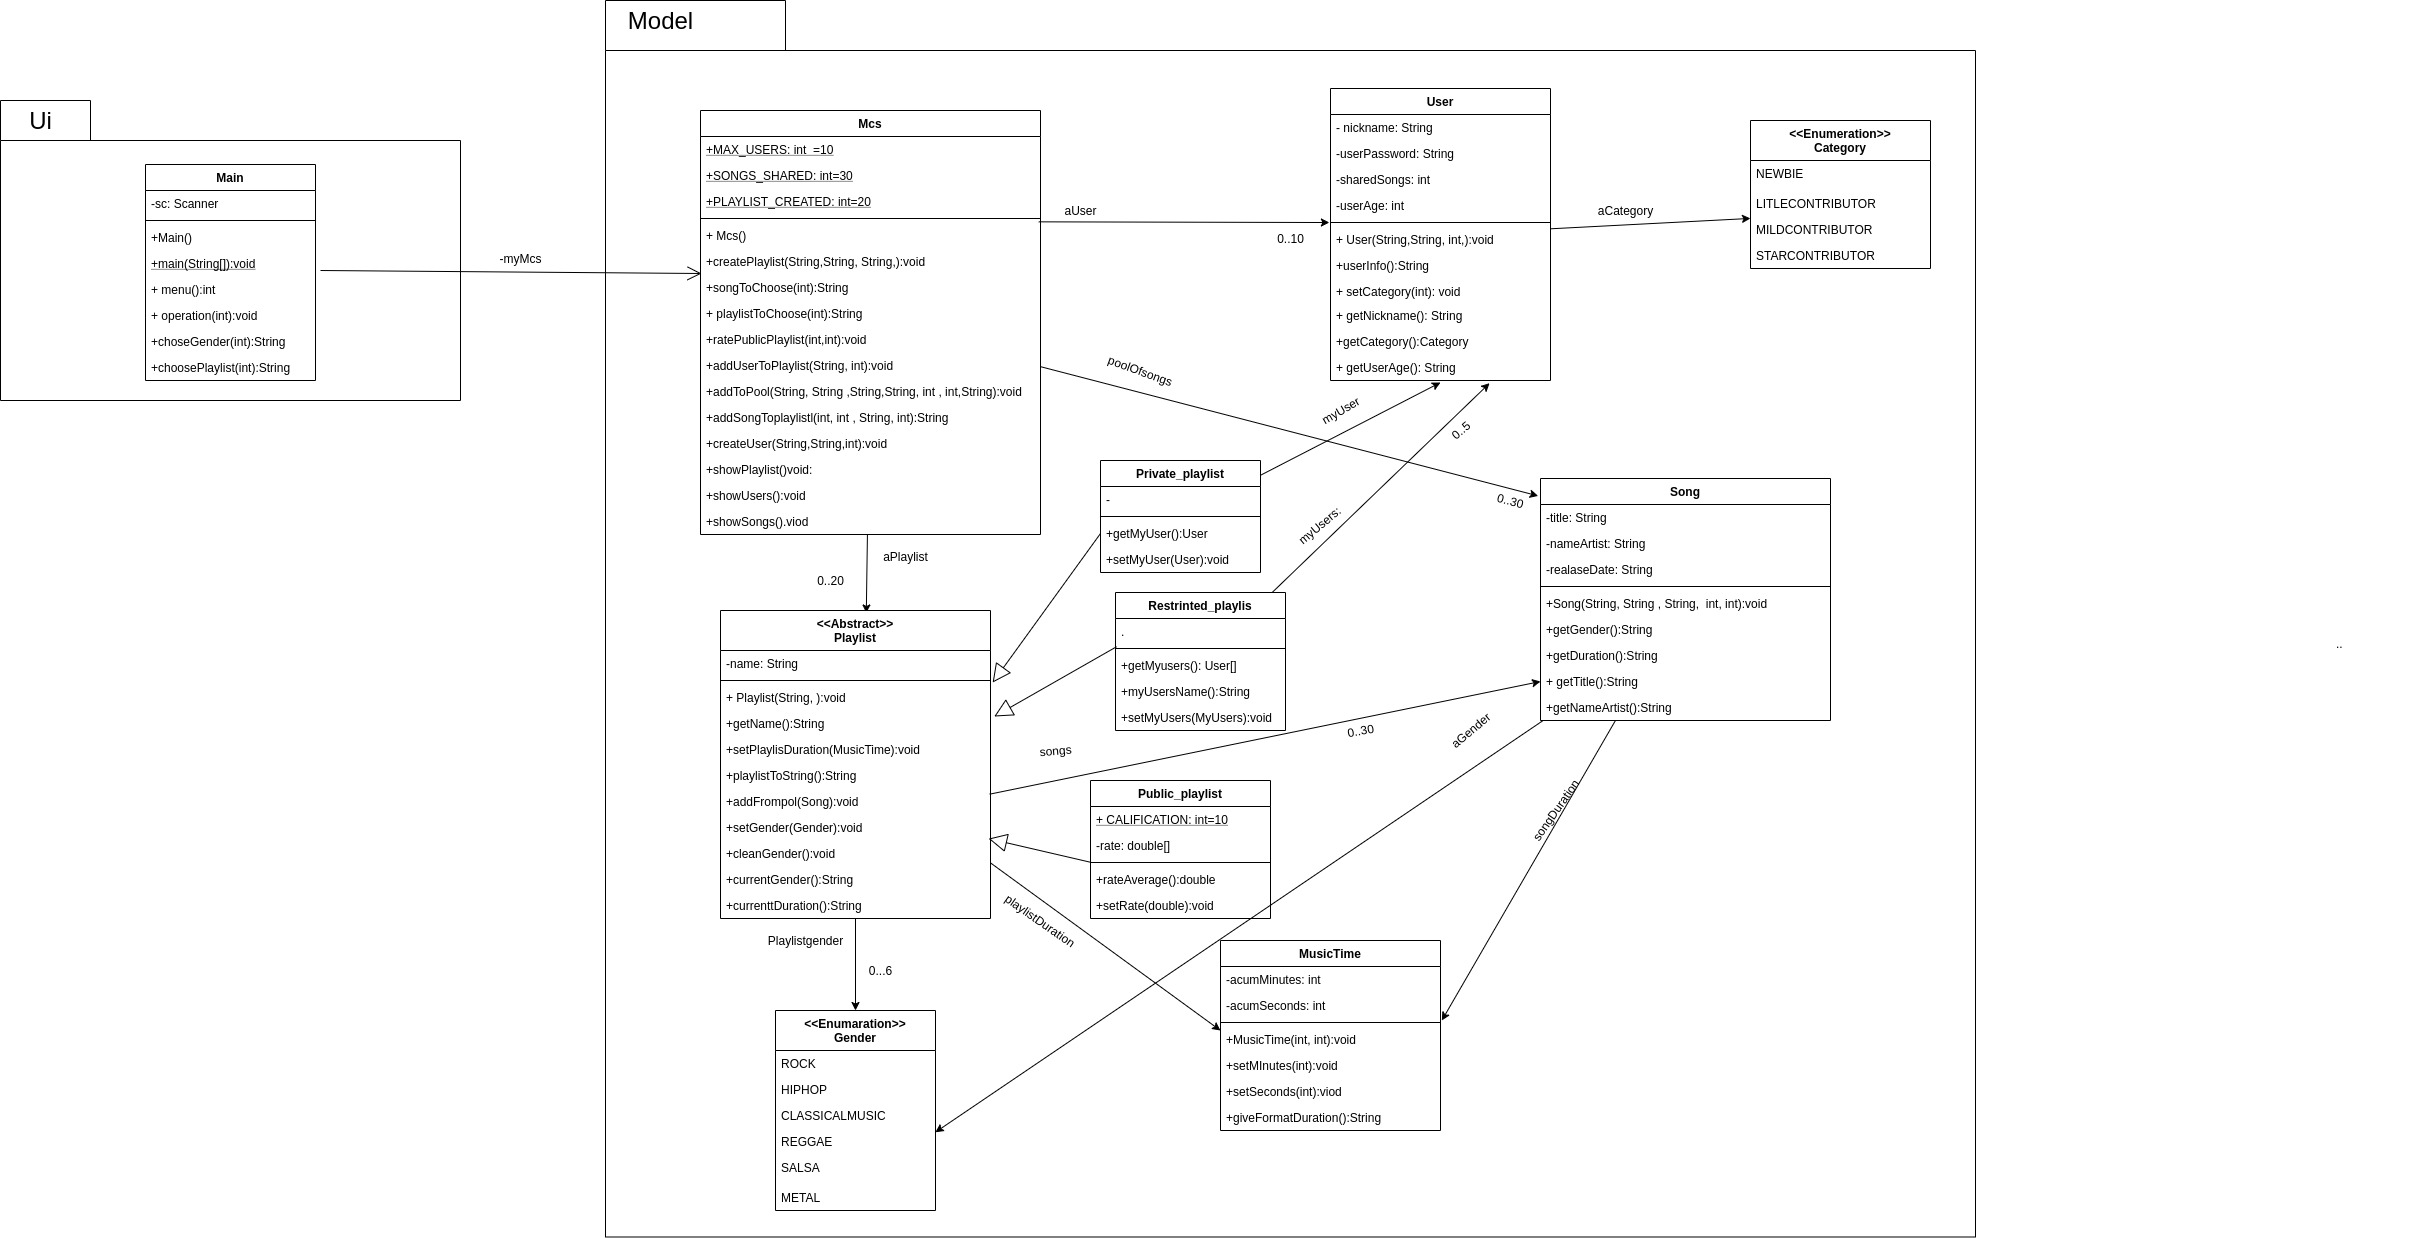
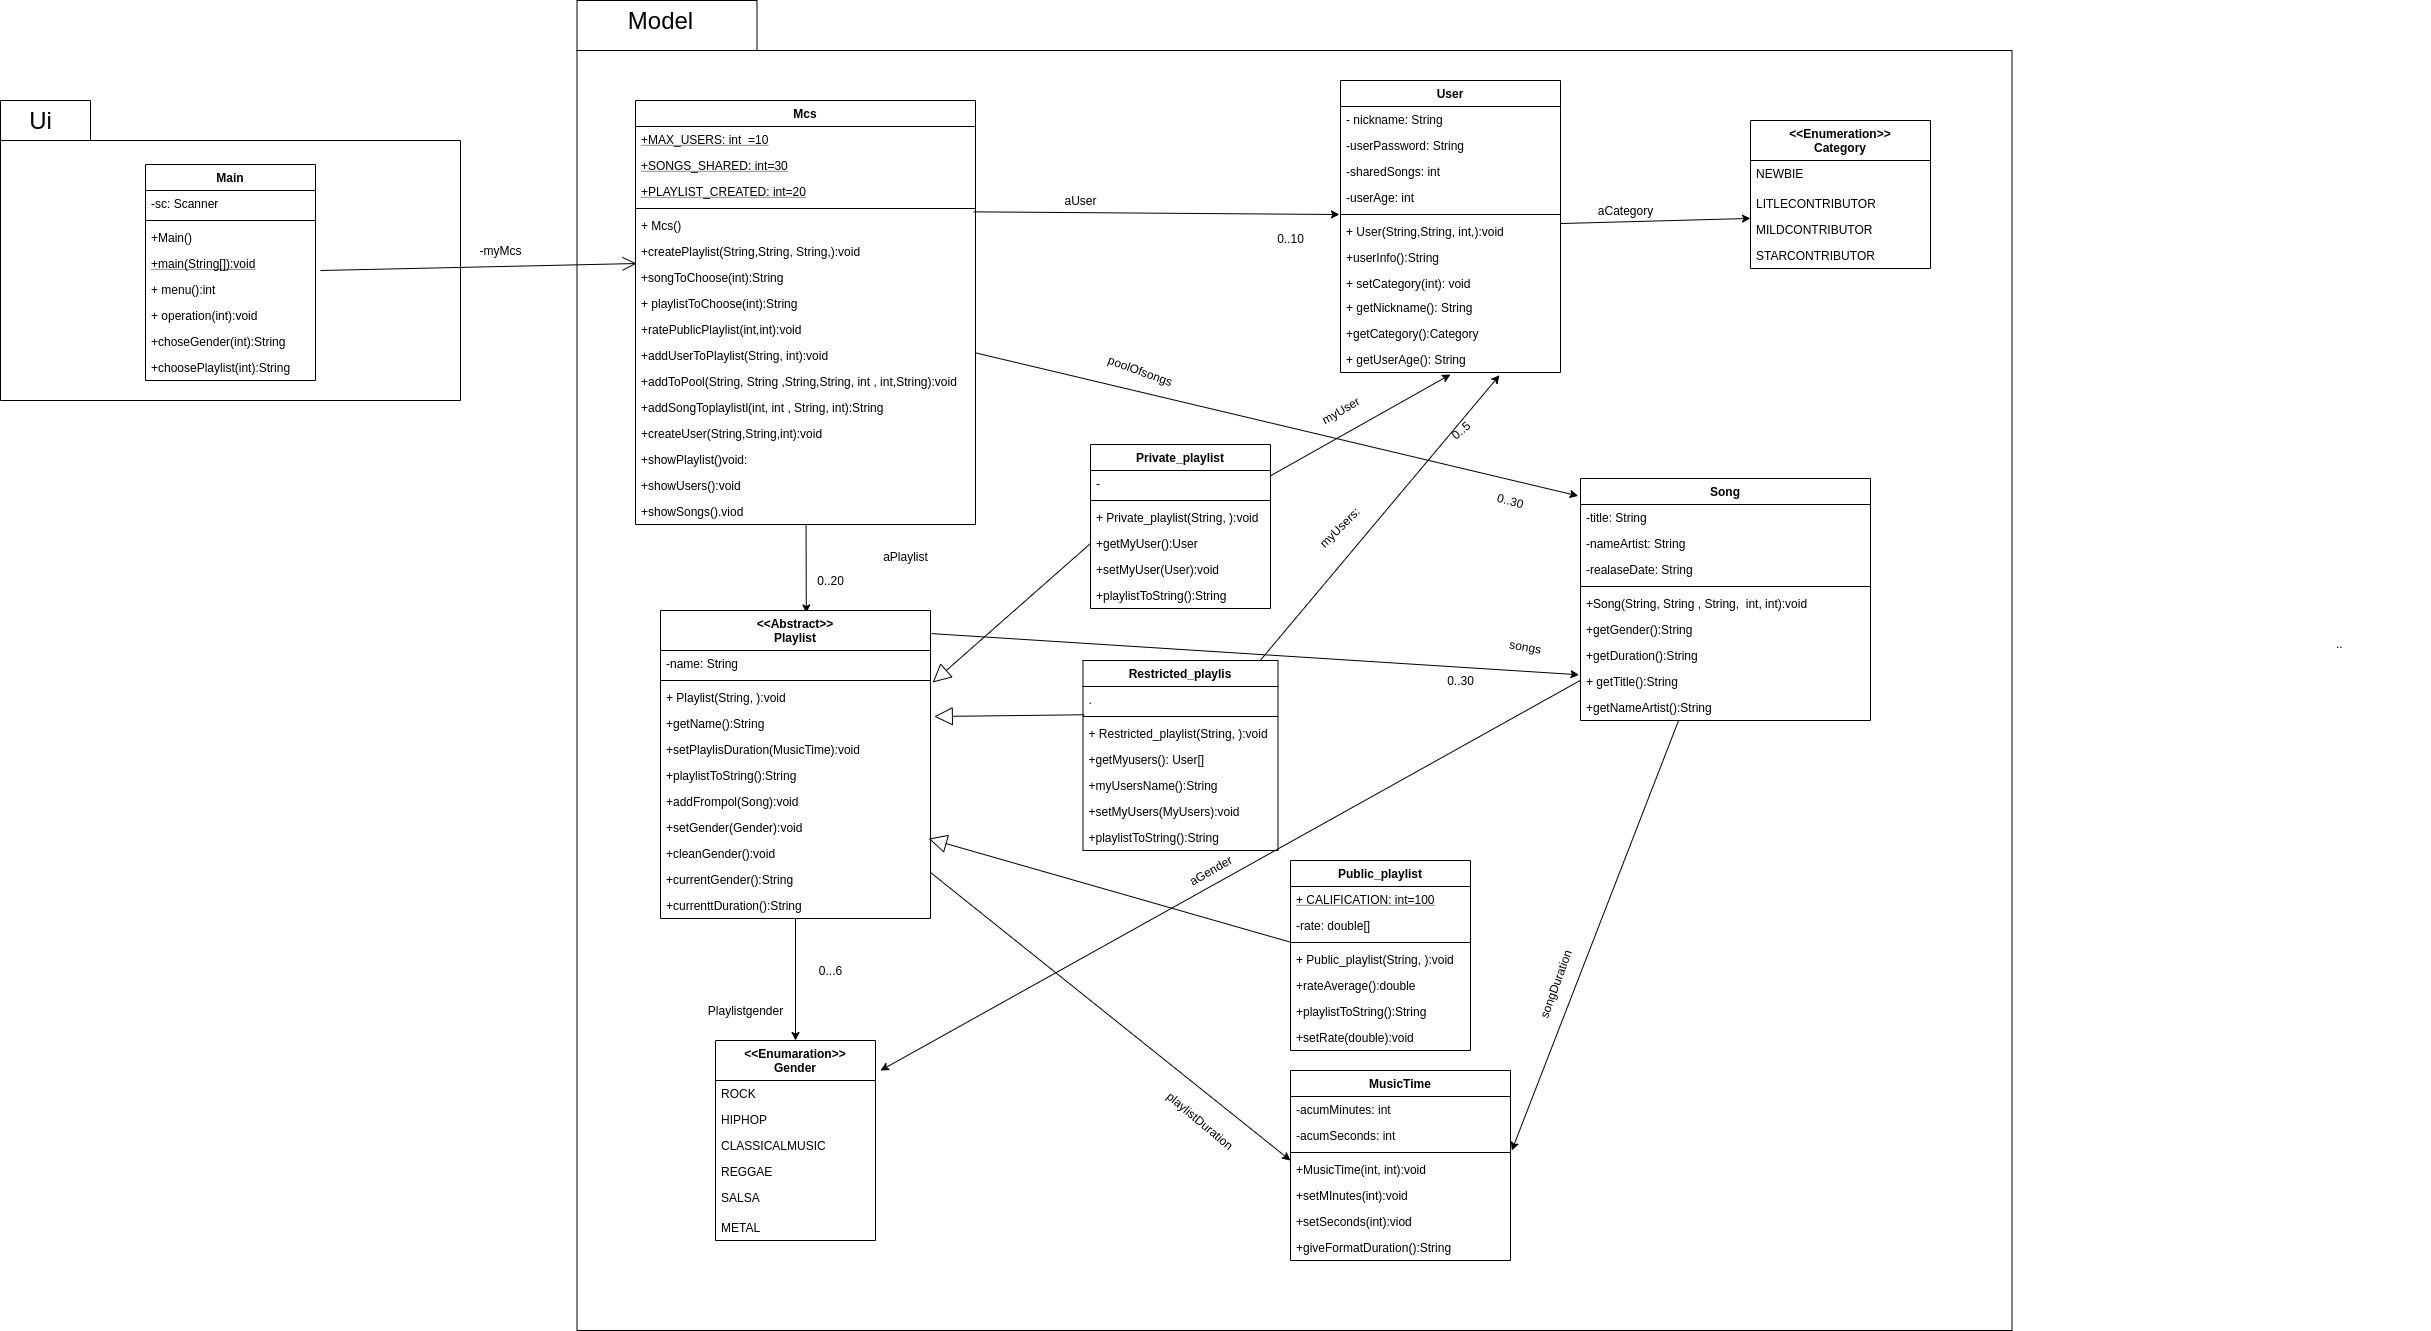
Last Changes

diff --git a/MCS/src/model/Public_playlist.java b/MCS/src/model/Public_playlist.java
@@ -7,7 +7,7 @@ package model;
  * @version 
  */
 public class Public_playlist extends Playlist {
-    public static final int CALCIFICATION =10;
+    public static final int CALCIFICATION =100;
     private double[] rate;
 
 
